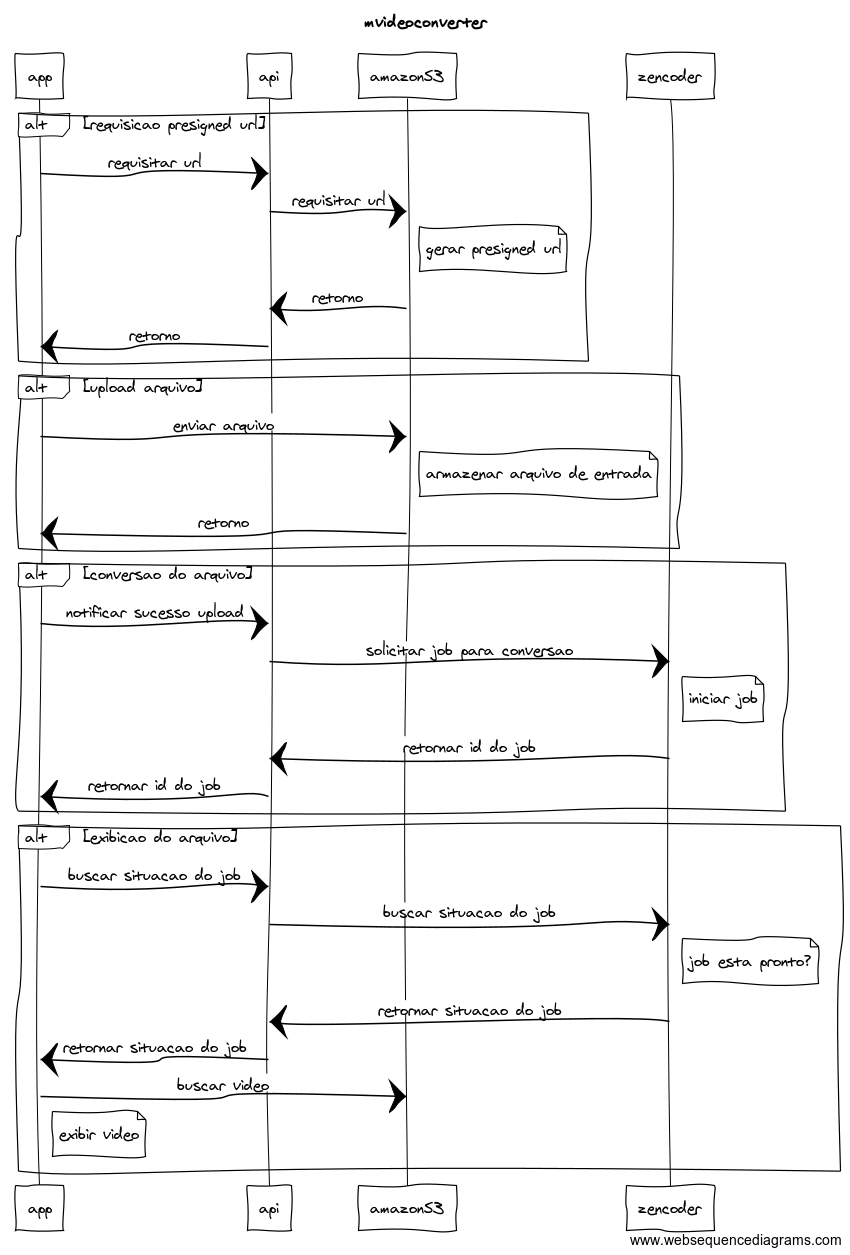
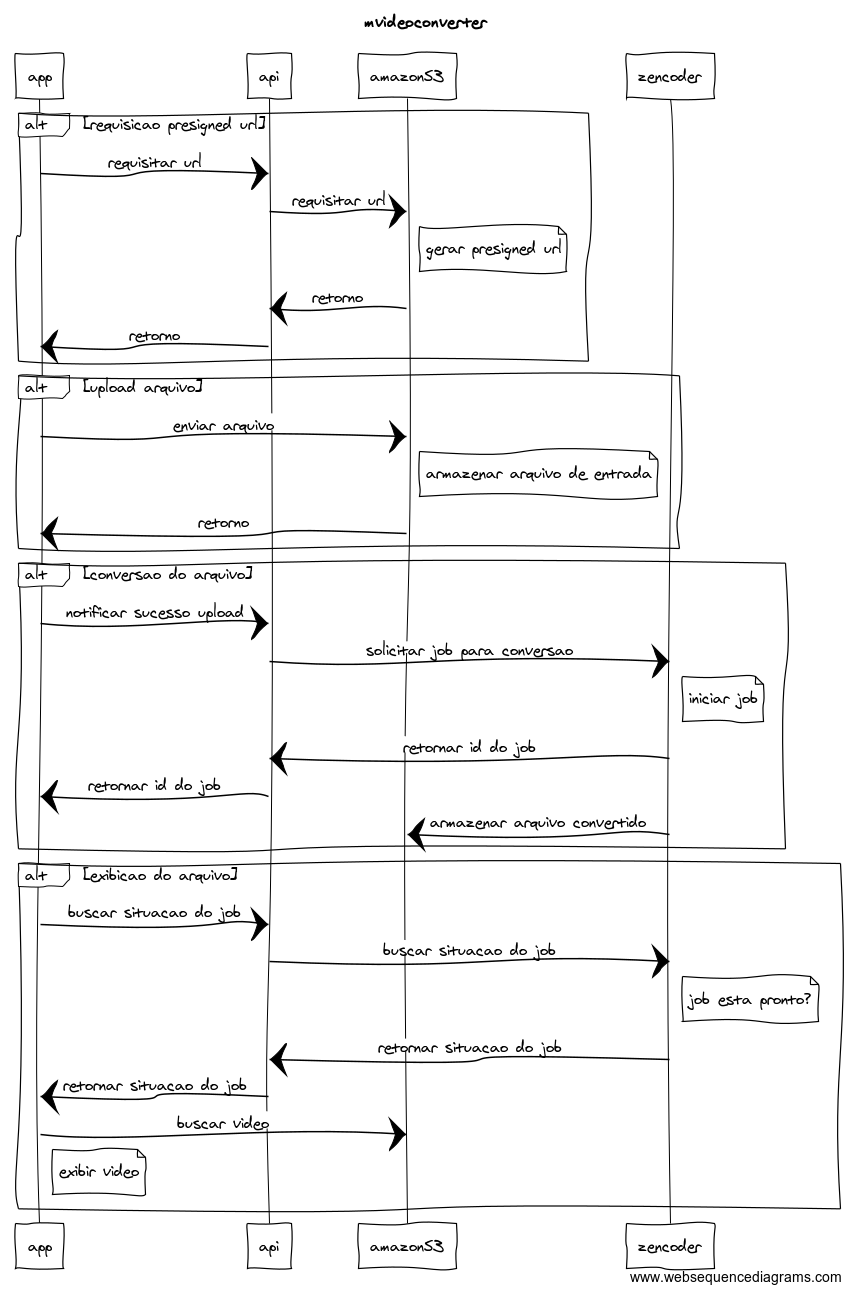
update doc and interface improvements

diff --git a/src/main/resources/templates/index.html b/src/main/resources/templates/index.html
@@ -15,7 +15,7 @@
             <h3 class="panel-title">Original File</h3>
           </div>
           <div class="panel-body">
-            <input class="bottom-marg-15" type="file" name="file" file></input>
+            <input class="bottom-marg-15" type="file" name="file" file accept=".avi,.flv,.wmv,.mp4,.dv,.mov,video/*"></input>
             <ul ng-if="file">
               <li>Name:&nbsp;<strong>{{fileName}}</strong></li>
               <li>Type:&nbsp;<strong>{{fileType}}</strong></li>
@@ -64,7 +64,7 @@
               Converted File
             </div>
             <div class="panel-body">
-              <video width="400" controls>
+              <video width="400" autoplay="autoplay" controls>
                 <source ng-src="{{trustSrc(videoUrl)}}" type="video/mp4">
                 Your browser does not support HTML5 video.
               </video>

diff --git a/README.md b/README.md
@@ -27,9 +27,10 @@ A conversão e exibição do vídeo se dá nos seguintes passos:
 1. Usuário seleciona arquivo
 1. Angular App requisita uma URL Pre-Signed para a API
 1. API requisita a URL Pre-Signed para o Amazon S3
-1. Angular App sobe o arquivo para a Amazon S3
+1. Angular App sobe o arquivo para o Amazon S3
 1. Angular App notifica a API sobre o upload
 1. API cria um Job no Zencoder e retorna para o App
+1. Zencoder armazena o vídeo convertido no Amazon S3
 1. Angular App requisita o status do vídeo até que esteja convertido
 1. O vídeo está convertido
 1. Angular App exibe o vídeo
